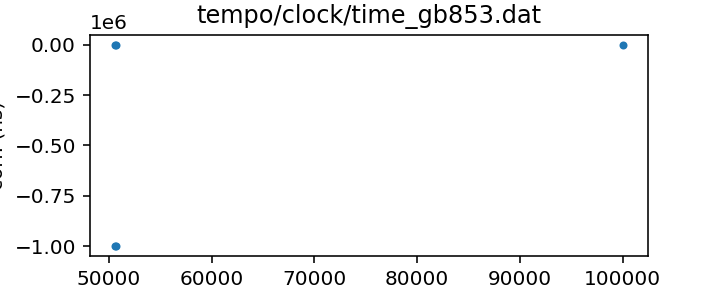
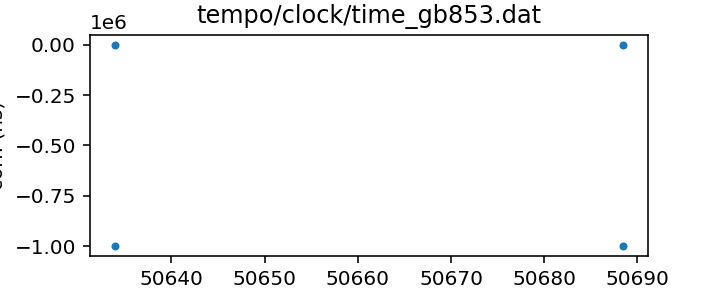
Fill out AO documentation

Changed region(s): [[0.0917, 0.9375, 0.9472, 1.0], [0.8556, 0.8438, 0.8861, 0.9062]]

diff --git a/status.md b/status.md
@@ -27,7 +27,7 @@ name of each clock file links to a page with more details.
 | [Arecibo (TEMPO2)](T2runtime/clock/ao2gps_tempo2.clk.html) | `T2runtime/clock/ao2gps_tempo2.clk` | 1996-03-13 MJD 50155.0 | 2019-12-18 MJD 58835.0 | 2022-05-26 | Unchanged 
 | [Arecibo to NIST (TEMPO2)](T2runtime/clock/ao2nist.clk.html) | `T2runtime/clock/ao2nist.clk` | 1982-11-29 MJD 45302.8 | 1994-11-29 MJD 49685.4 | 2022-05-26 | Unchanged 
 | [GB140](tempo/clock/time_gb140.dat.html) | `tempo/clock/time_gb140.dat` | 1993-11-29 MJD 49320.5 | 1999-07-31 MJD 51390.5 | 2022-06-01 | Updated 
-| [GB853](tempo/clock/time_gb853.dat.html) | `tempo/clock/time_gb853.dat` | 1997-07-04 MJD 50634.0 | 2132-08-31 MJD 99999.0 | 2022-06-01 | Unchanged 
+| [GB853](tempo/clock/time_gb853.dat.html) | `tempo/clock/time_gb853.dat` | 1997-07-04 MJD 50634.0 | 1997-08-28 MJD 50688.4 | 2022-06-01 | Unchanged 
 
 
 

diff --git a/tempo/clock/time_gb853.dat.md b/tempo/clock/time_gb853.dat.md
@@ -22,9 +22,9 @@ If questions arise, contact Ryan S. Lynch <rlynch@nrao.edu>.
 | URL in repository | <https://raw.githubusercontent.com/nanograv/pulsar-clock-corrections/main/tempo/clock/time_gb853.dat> |
 | Original download URL | <https://sourceforge.net/p/tempo/tempo/ci/master/tree/clock/time_gb853.dat?format=raw> |
 | Format | tempo |
-| Bogus last correction | False |
+| Bogus last correction | True |
 | Clock file start | 1997-07-04 MJD 50634.0 |
-| Clock file end | 2132-08-31 MJD 99999.0 |
+| Clock file end | 1997-08-28 MJD 50688.4 |
 | Update interval (days) | inf |
 | Last update attempt | 2022-06-01 |
 | Last update result | Unchanged |

diff --git a/T2runtime/clock/ao2gps.clk.md b/T2runtime/clock/ao2gps.clk.md
@@ -7,6 +7,11 @@ This file is automativally converted from the TEMPO-format Arecibo
 clock corrections, which cover the observatory's full operational
 history. Please see the Arecibo clock corrections for details.
 
+The earliest clock corrections in this file predate GPS and are
+actually referenced to NIST time directly. Clock corrections from
+after 1995 are referenced to GPS. This file does not distinguish
+between the two, claiming to be entirely referenced to NIST.
+
 |     |     |
 |:--- |:--- |
 | File | `T2runtime/clock/ao2gps.clk` |

diff --git a/T2runtime/clock/ao2gps_tempo2.clk.md b/T2runtime/clock/ao2gps_tempo2.clk.md
@@ -3,6 +3,12 @@
 
 Arecibo clock corrections to GPS (TEMPO2 version)
 
+The early clock corrections for Arecibo predate GPS and are
+actually referenced directly to NIST. This clock correction file
+separates these out so their corrections can be handled using a
+different clock chain. Unfortunately it does not include
+clock corrections for the last months of operation of Arecibo.
+
 This file is pulled from the TEMPO2 repository and may not be fully up-to-date.
 
 |     |     |

diff --git a/tempo/clock/time_ao.dat.md b/tempo/clock/time_ao.dat.md
@@ -7,6 +7,11 @@ This file covers clock corrections up to the final shut-down before
 the collapse. Any updates are expected to be retroactive
 corrections.
 
+The earliest clock corrections in this file predate GPS and are
+actually referenced to NIST time directly. Clock corrections from
+after 1995 are referenced to GPS. This file does not distinguish
+between the two.
+
 |     |     |
 |:--- |:--- |
 | File | `tempo/clock/time_ao.dat` |

diff --git a/T2runtime/clock/ao2nist.clk.md b/T2runtime/clock/ao2nist.clk.md
@@ -3,6 +3,11 @@
 
 Arecibo clock corrections to UTC(NIST) (TEMPO2 version)
 
+The early clock corrections for Arecibo predate GPS and are
+actually referenced directly to NIST. This clock correction file
+separates these out so their corrections can be handled using a
+different clock chain.
+
 This file is pulled from the TEMPO2 repository and may not be fully up-to-date.
 
 |     |     |
